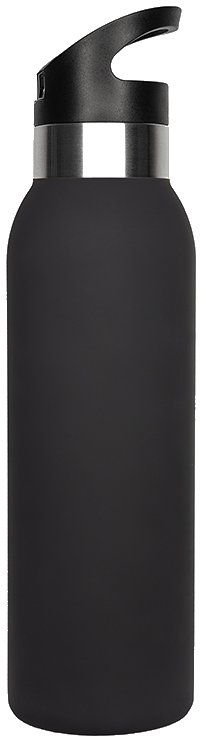
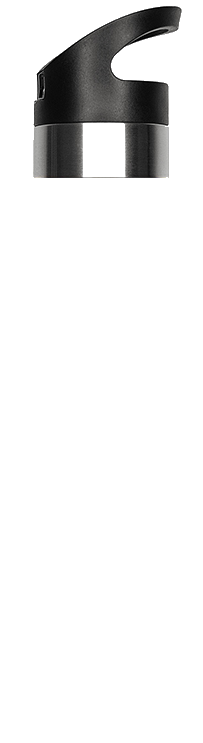
Farbwahl repariert: weißer Flaschenkörper + multiply-Blend, gewählte Farbe wird exakt übernommen

diff --git a/web/css/style.css b/web/css/style.css
@@ -183,7 +183,7 @@ body {
   position: absolute;
   inset: 0;
   pointer-events: none;
-  mix-blend-mode: color;
+  mix-blend-mode: multiply;
   -webkit-mask-size: 100% 100%;
   mask-size: 100% 100%;
   -webkit-mask-repeat: no-repeat;
